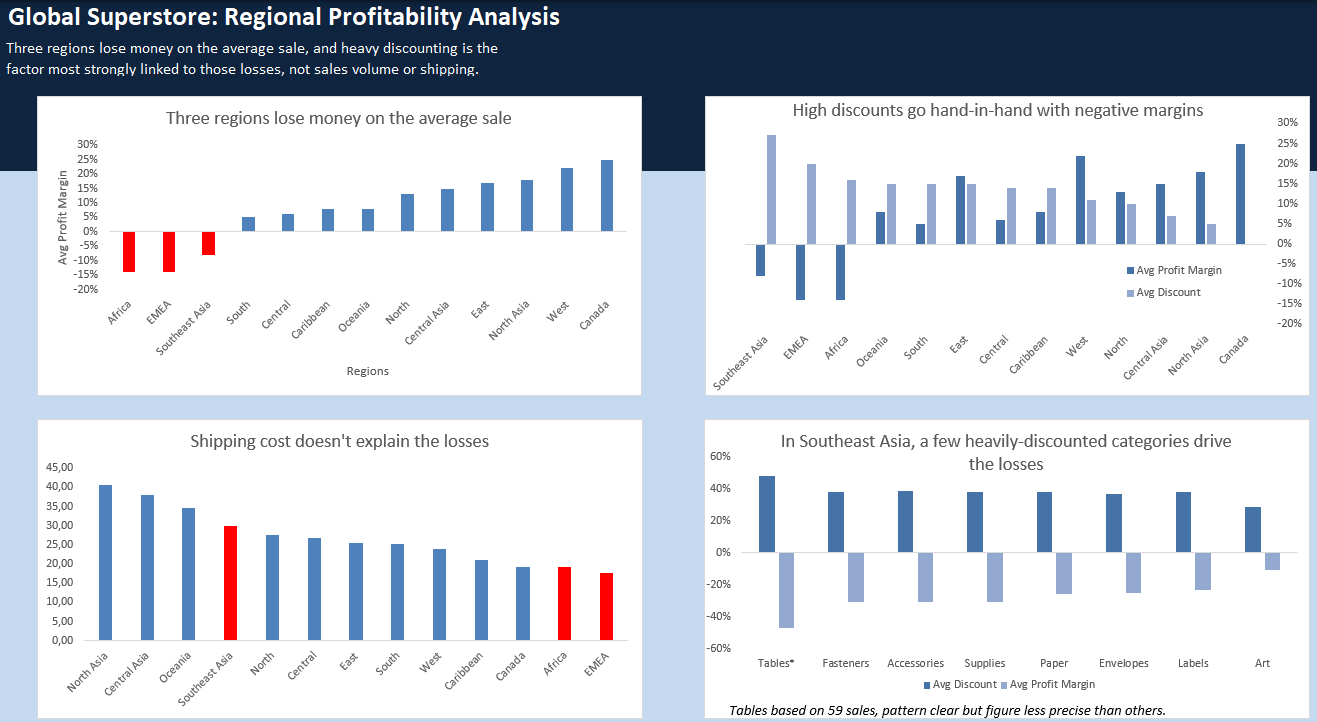
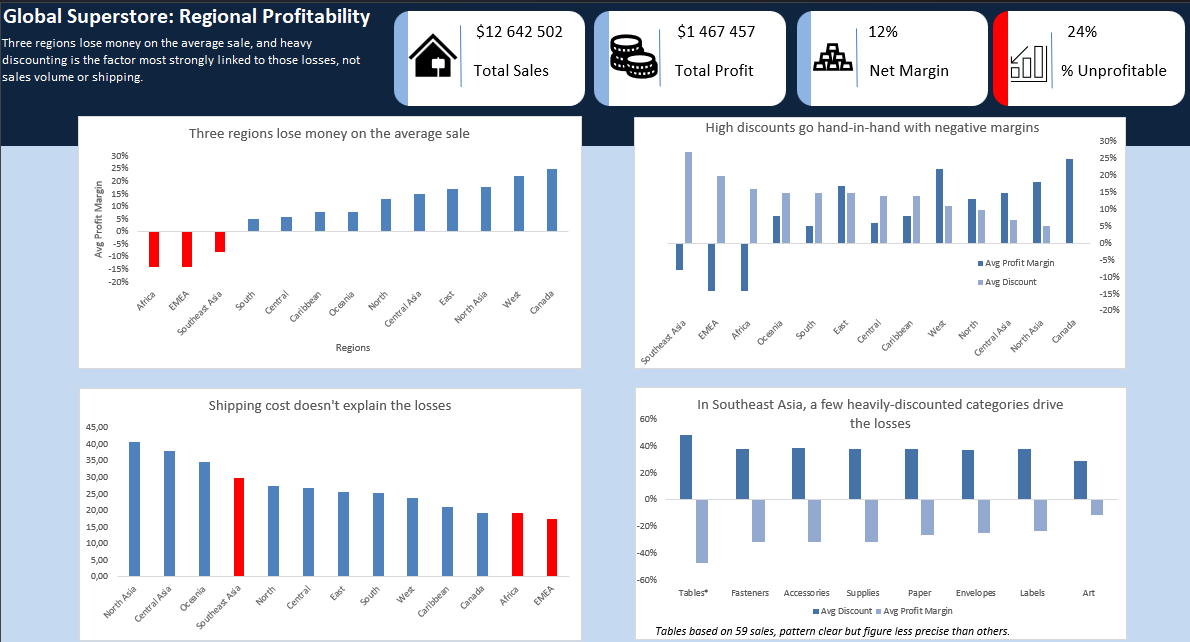
Update README with project background, analysis insights, and recommendations; remove outdated project document

diff --git a/README.md b/README.md
@@ -1,48 +1,67 @@
 # Global Superstore: Regional Profitability Analysis
 
-**Tool:** Microsoft Excel (XLOOKUP, PivotTables, calculated fields, data validation, data mapping)  
-**Dataset:** Global Superstore, around 51,000 order records across 13 regions, 2011 to 2014
+## Project background
 
-## The question
+Global Superstore is a global online retailer selling office supplies, furniture, and technology to customers across many countries and regions. Like any retailer, its goal is not just to sell more but to make sure those sales actually turn into profit.
 
-Sales were growing but profit wasn't keeping up. So the question I set out to answer was simple to ask and less simple to answer: where across the 13 regions is the business actually losing money, and what is driving it?
+The business had a problem that is easy to miss. Sales were growing, but profit was not growing with them. That gap is worth taking seriously, because a company can look healthy on total sales while losing money underneath, in places the headline numbers hide.
 
-The reason that matters is that a business can look fine in total while quietly losing money underneath. The overall margin here sat at a few percent, which on its own looks unremarkable. But an average like that hides as much as it shows, because it blends the strong regions and the failing ones together. The job was to pull them apart and find out which was which, and then work out the cause honestly instead of blaming the first thing that lined up with the losses.
+This project analyses around 51,000 orders across 13 regions from 2011 to 2014 to answer one question: where is the business actually losing money, and what is driving it? The aim was to give a clear answer that someone making a pricing decision could act on, not just a set of charts.
 
-## What I found
+The analysis was done in Microsoft Excel, and the findings are pulled together in a one page dashboard included in this repository.
 
-About a quarter of all sales were unprofitable, and the losses were not spread evenly across the business.
+## Headline numbers
 
-- The losses sat in three regions. Africa, EMEA, and Southeast Asia were running negative average margins, while the other ten regions stayed profitable. The business only looked healthy overall because the profitable regions were covering for the rest.
-- Discounting was the factor most closely tied to the losses. The three loss making regions were discounting between 16 and 27 percent, while Canada, the healthiest region, discounted nothing and held the best margin. Across all the regions, the deeper the discount, the worse the margin.
-- Shipping was not the cause. Before settling on discounting I wanted to check whether shipping was really behind it, so I tested both shipping cost and shipping delay. Neither lined up with the losses. Africa and EMEA actually had the lowest shipping costs in the company and were still losing money, which pointed back to discounting.
-- Southeast Asia was a different shape from the other two. Most of the region was profitable. The damage came from a few heavily discounted categories (Tables, Accessories, Supplies, Fasteners) that were dragging the whole region into the red. So the fix there is targeted at those categories rather than applied to the whole region.
+- Total sales: $12.6M
+- Total profit: $1.47M
+- Net margin: 12%
+- Share of sales that lose money: 24%
+
+That last number is the one that started the investigation. Almost a quarter of all sales were unprofitable, so the question was never whether there was a problem, but where it sat and what was causing it.
+
+## Executive summary
+
+The losses are not spread evenly across the business. They sit in three regions, Africa, EMEA, and Southeast Asia, which all run negative average margins while the other ten regions stay profitable. The business only looks healthy overall because the profitable regions cover for the ones losing money.
+
+The factor most closely tied to those losses is discounting. The three loss making regions discount the heaviest, between 16 and 27 percent, while Canada, the healthiest region, discounts nothing and keeps the best margin. Across all regions, the deeper the discount, the worse the margin.
+
+Before settling on that answer, I checked whether shipping was really the cause instead. It was not. The loss making regions actually had some of the lowest shipping costs in the company and were still losing money, which pointed back to discounting.
+
+Southeast Asia turned out to be a different shape from the other two. Most of the region was fine. The damage came from a small number of heavily discounted categories dragging the whole region into the red, which means the fix there can be targeted rather than applied across the board.
+
+## Insights and recommendations
+
+The analysis focused on these areas:
+
+**Where the losses sit**
+Africa, EMEA, and Southeast Asia run negative average margins while the other ten regions stay profitable. About 24 percent of all sales lose money, and these three regions are where that loss concentrates.
+Recommendation: treat these three regions as the priority for a pricing and discount review, rather than spreading attention evenly across all regions.
+
+**What is driving the losses**
+Discounting is the factor most closely associated with the losses. The heaviest discounting regions have the worst margins, and the region that discounts nothing has the best. This pattern holds across all 13 regions.
+Recommendation: cap discounts in the affected regions for a quarter and measure whether margins recover before making the change permanent.
+
+**What is not driving the losses**
+Shipping cost and shipping delay were both tested and neither lines up with the losses. Two of the loss making regions have the lowest shipping costs in the company.
+Recommendation: avoid spending effort on logistics or shipping renegotiation for this problem, since the evidence points to discount policy instead.
+
+**Where inside a region to act**
+Southeast Asia is mostly profitable apart from a few heavily discounted categories (Tables, Accessories, Supplies, Fasteners) that pull the whole region negative.
+Recommendation: aim the discount limits at those specific categories rather than the whole region, and check local demand before restocking them.
 
 ## Dashboard
 
 ![Global Superstore Regional Profitability Dashboard](dashboard.png)
 
-The dashboard is built as one argument rather than a pile of charts. The first chart shows where the problem is, the second shows the cause, the third shows what it is not (shipping), and the fourth shows where inside Southeast Asia to actually act.
+The dashboard is built as one argument rather than a set of separate charts. It opens with the four headline numbers, then works through where the problem is, what is causing it, what is not causing it, and where inside Southeast Asia to act.
 
-## Recommendations
+## The data
 
-- Treat the three loss making regions as the priority for a pricing and discount review.
-- Cap discounts in those regions for a quarter and measure whether margins recover before making it permanent.
-- In Southeast Asia, aim the discount limits at the specific categories that are losing money rather than the whole region, and check local demand before restocking them.
-
-## How I worked through it
-
-1. Cleaned and checked the data first. The dates came in as text and would not calculate, so I confirmed that and rebuilt them into real dates before doing any date maths. I built profit margin (Profit divided by Sales) and shipping delay (Ship Date minus Order Date) as new columns, and checked for duplicate rows.
-2. Mapped targets onto the data. I built a small reference table giving each region a margin target and used XLOOKUP to pull those onto every row, so I could judge each region against a goal instead of just looking at raw numbers.
-3. Tested the idea with PivotTables. I compared profit, sales, margin, and discount across the regions to find where the losses were and to see whether discounting explained them.
-4. Tried to prove myself wrong. I tested shipping cost and shipping delay against the weak regions to see if shipping, not discounting, was the driver. It was not, and ruling it out is part of why I trust the finding.
-5. Went down to product level. I broke the problem regions down by category, and checked the most extreme result against how many sales it was based on before treating it as a real finding.
-
-## Data dictionary (key fields)
+The dataset holds around 51,000 order lines, one row per product within an order, so a single order can span several rows. The fields that mattered most for this analysis:
 
 | Field | What it is |
 |---|---|
-| Order ID | Identifies each order. One order can appear across several rows, one per product. |
+| Order ID | Identifies each order. Repeats across rows when an order has several products. |
 | Order Date / Ship Date | When the order was placed and shipped. Used to work out shipping delay. |
 | Sales | Revenue for the line. Misleading on its own, since high sales can still lose money. |
 | Profit | Gain or loss on the line. Can be negative. |
@@ -51,18 +70,26 @@ The dashboard is built as one argument rather than a pile of charts. The first c
 | Region | Broad geographic area, 13 in total. The main focus of this analysis. |
 | Shipping Cost | Cost to ship the order. Tested as an alternative cause and ruled out. |
 
-Fields I added during the analysis: Profit Margin, Shipping Delay, and a Target Margin pulled from the reference table with XLOOKUP.
+Fields added during the analysis: profit margin (Profit divided by Sales), shipping delay (Ship Date minus Order Date), and a target margin per region pulled in with XLOOKUP.
 
-## What I would want you to know about the limits
+## How the analysis was done
 
-I think being clear about what this analysis can and cannot say is part of doing it properly, so:
+1. Cleaned and checked the data first. The dates came in as text and would not calculate, so I confirmed that and rebuilt them into real dates. I added profit margin and shipping delay as new columns and checked for duplicate rows.
+2. Set a benchmark for each region. I built a small reference table of margin targets and used XLOOKUP to pull them onto every row, so each region could be judged against a goal rather than a raw number.
+3. Located the losses with PivotTables. I compared profit, sales, margin, and discount across the regions to find where the money was leaking and to test whether discounting explained it.
+4. Tested the alternative. I checked shipping cost and shipping delay against the weak regions to see if shipping was the real cause. It was not, and ruling it out is part of why I trust the finding.
+5. Went to product level. I broke the problem regions down by category, and checked the most extreme result against how many sales it was based on before treating it as real.
 
-- It shows discounting is closely associated with the losses, not that discounting is the proven single cause. I only tested a limited set of explanations.
-- The data covers four years, which is too short to say for certain whether things are getting better or worse over time.
-- The dataset has nothing on regional economies, customer behaviour, or pricing strategy, so I can't test those and I don't claim them.
-- The margin targets I used were reasonable assumptions I set for this exercise, not real company figures.
-- Some numbers are averages that can hide variation. The most extreme result, Tables in Southeast Asia, is based on only 59 sales, so the direction is clear but the exact figure is shakier than the others.
+## What this analysis does not claim
 
-## What I took from it
+Being clear about the limits is part of doing this properly.
 
-The most useful thing here was not a feature of Excel. It was learning to test my own conclusion before trusting it, and to look twice at a dramatic number before leaning on it. The striking finding is not always the whole story, and an honest analysis is worth more than an impressive sounding one.
+- It shows discounting is closely associated with the losses, not that it is the proven single cause. Only a limited set of explanations was tested.
+- The data covers four years, which is too short to say for certain whether things are improving or getting worse over time.
+- The dataset has nothing on regional economies, customer behaviour, or pricing strategy, so those cannot be tested and are not claimed.
+- The margin targets used were reasonable assumptions set for this exercise, not real company figures.
+- Some figures are averages that can hide variation. The most extreme result, Tables in Southeast Asia, rests on only 59 sales, so its direction is clear but its exact figure is less reliable.
+
+## Tools
+
+Microsoft Excel: XLOOKUP, PivotTables, calculated fields, data validation, data mapping, and a one page dashboard.
